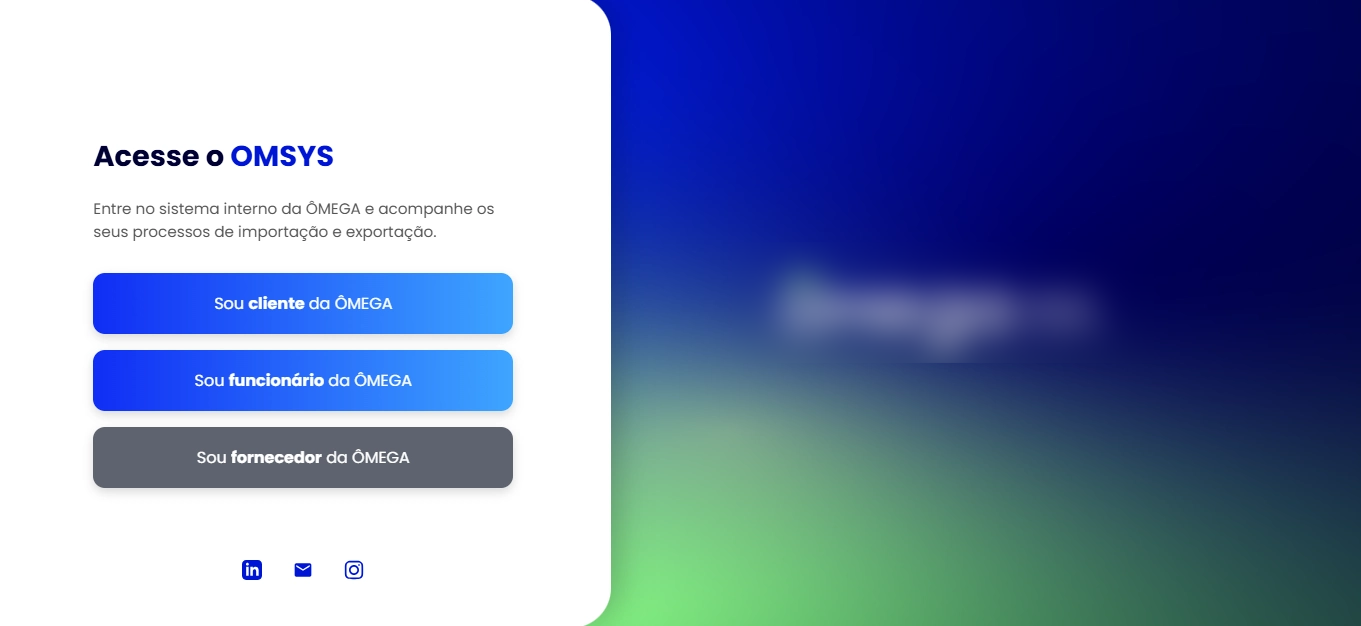
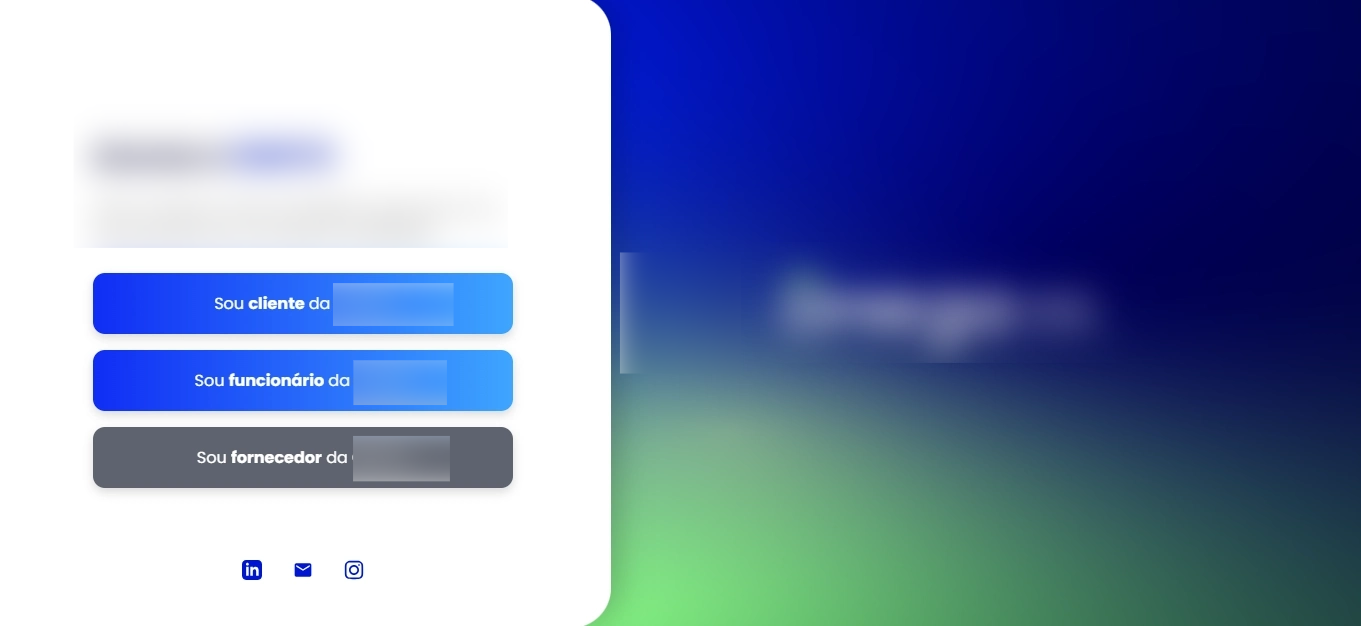
imagem censurada

diff --git a/src/projetos.tsx b/src/projetos.tsx
@@ -151,7 +151,7 @@ function Projetos({ lang = "pt", onProjetosVisibilityChange }: ProjetosProps) {
   }, [onProjetosVisibilityChange]);
   const projetos: Projeto[] = [
     {
-      name: "OMSYS",
+      name: "Painel Operacional/ERP Comex",
       description:
         lang === "pt"
           ? "Painel administrativo com mais de 40 módulos funcionais, incluindo: controle de processos logísticos (cabotagem e rodoviário), emissão de CTes e notas fiscais, faturamentos, fluxo de caixa, contas bancárias, gestão de propostas comerciais, prospecção de clientes, jurídico, controladoria, organograma de equipe, biblioteca de documentos, ouvidoria interna, mural de comunicados e módulo de treinamentos."